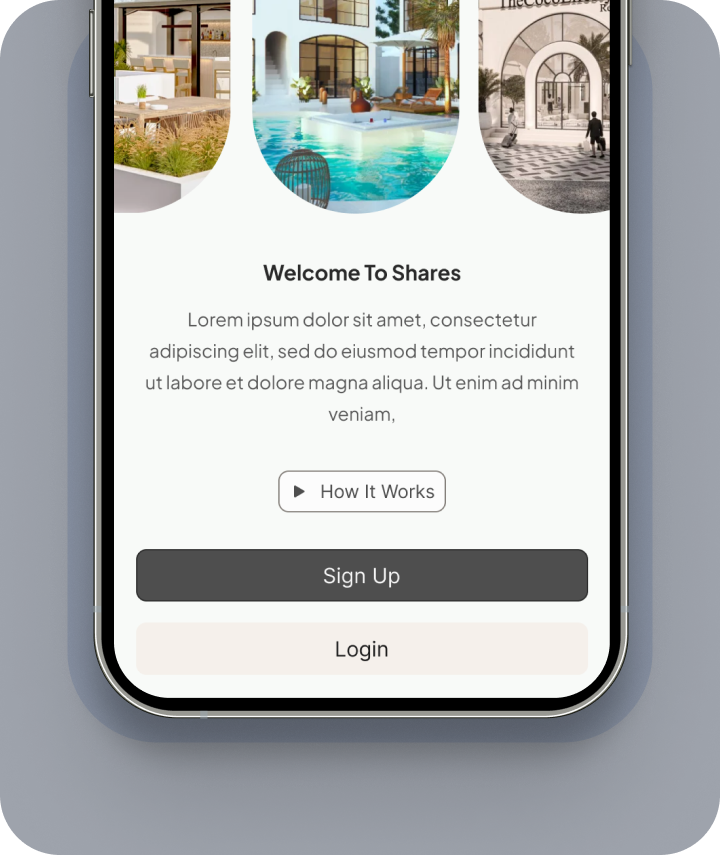
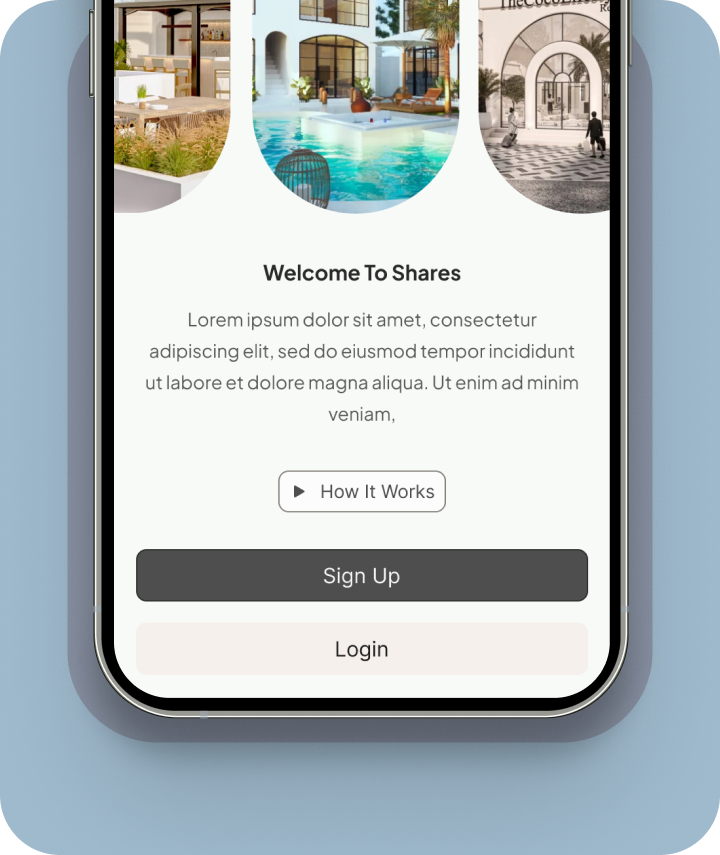
color scheming update

Changed region(s): [[0.0, 0.0, 1.0, 1.0]]

diff --git a/src/assets/icons/sale-site/works-invest-icon.tsx b/src/assets/icons/sale-site/works-invest-icon.tsx
@@ -10,13 +10,13 @@ const WorksInvestIcon = () => {
       <g clipPath="url(#clip0_298_17464)">
         <path
           d="M26.7856 48.2107V29.4607C26.7856 28.2767 27.256 27.1412 28.0932 26.304C28.9304 25.4668 30.0659 24.9965 31.2499 24.9965C32.4339 24.9965 33.5694 25.4668 34.4067 26.304C35.2439 27.1412 35.7142 28.2767 35.7142 29.4607V39.2822H42.8571C44.7515 39.2822 46.5683 40.0347 47.9078 41.3743C49.2474 42.7138 49.9999 44.5306 49.9999 46.425V48.2107"
-          fill="#9EA3AC"
+          fill="#9FBACD"
         />
         <path
           fillRule="evenodd"
           clipRule="evenodd"
           d="M0.110842 15.8C0.114865 13.5254 0.610048 11.2786 1.56253 9.21307C2.51501 7.14756 3.90232 5.3121 5.6296 3.83221C7.35688 2.35232 9.38338 1.2629 11.5705 0.638451C13.7577 0.0140025 16.0539 -0.130749 18.3021 0.214097C20.5504 0.558942 22.6977 1.38525 24.5971 2.63651C26.4966 3.88778 28.1034 5.53449 29.3077 7.46404C30.512 9.39359 31.2855 11.5605 31.5751 13.8165C31.8647 16.0725 31.6637 18.3645 30.9858 20.5357C28.6646 20.6044 26.4614 21.5749 24.8438 23.2412C23.2262 24.9074 22.3215 27.1384 22.3216 29.4607V30.2428C19.916 31.3117 17.2814 31.7625 14.6573 31.5542C12.0332 31.3459 9.50275 30.4851 7.29593 29.0501C5.08911 27.6151 3.27589 25.6513 2.02107 23.3373C0.766255 21.0233 0.109618 18.4323 0.110842 15.8ZM15.9073 4.23569C17.143 4.23569 18.1394 5.23569 18.1394 6.46784V7.47855C19.0175 7.67972 19.8305 8.09949 20.5029 8.69889C21.1754 9.29829 21.6855 10.0579 21.9858 10.9071C22.0836 11.1836 22.126 11.4766 22.1105 11.7695C22.0951 12.0623 22.0221 12.3493 21.8957 12.6139C21.7694 12.8786 21.5921 13.1158 21.3741 13.3119C21.1561 13.508 20.9016 13.6593 20.6251 13.7571C20.3486 13.8549 20.0556 13.8973 19.7628 13.8818C19.4699 13.8664 19.183 13.7934 18.9183 13.667C18.6537 13.5407 18.4165 13.3634 18.2204 13.1454C18.0242 12.9274 17.8729 12.6729 17.7751 12.3964C17.7146 12.2251 17.6023 12.0767 17.4539 11.9718C17.3056 11.8669 17.1283 11.8106 16.9466 11.8107H14.5358C14.4025 11.813 14.2747 11.864 14.1764 11.954C14.078 12.044 14.016 12.1669 14.0019 12.2995C13.9879 12.432 14.0228 12.5652 14.1001 12.6738C14.1774 12.7824 14.2917 12.8591 14.4216 12.8893L18.0894 13.6893C19.2752 13.95 20.3369 14.6065 21.0999 15.5509C21.863 16.4953 22.2818 17.6712 22.2876 18.8853C22.2935 20.0994 21.8859 21.2793 21.132 22.231C20.378 23.1826 19.3226 23.8493 18.1394 24.1214V25.1357C18.1394 25.7277 17.9042 26.2954 17.4856 26.7141C17.067 27.1327 16.4993 27.3678 15.9073 27.3678C15.3153 27.3678 14.7475 27.1327 14.3289 26.7141C13.9103 26.2954 13.6751 25.7277 13.6751 25.1357V24.125C12.7981 23.9223 11.9863 23.502 11.3147 22.9028C10.643 22.3035 10.1332 21.5447 9.83227 20.6964C9.63478 20.138 9.66719 19.5241 9.92237 18.9896C10.1776 18.4551 10.6346 18.0439 11.193 17.8464C11.7514 17.6489 12.3653 17.6813 12.8998 17.9365C13.4343 18.1917 13.8455 18.6487 14.043 19.2071C14.104 19.3782 14.2163 19.5262 14.3646 19.631C14.5129 19.7359 14.69 19.7924 14.8716 19.7928H16.9466C17.1605 19.7876 17.3652 19.7047 17.5226 19.5597C17.68 19.4147 17.7793 19.2174 17.802 19.0046C17.8247 18.7918 17.7693 18.578 17.6461 18.4031C17.5229 18.2281 17.3403 18.1039 17.1323 18.0535L13.468 17.25C12.333 17.0026 11.3192 16.3685 10.6 15.4562C9.88083 14.5439 9.501 13.4101 9.52547 12.2487C9.54994 11.0872 9.97719 9.97042 10.7341 9.08922C11.4911 8.20802 12.5307 7.6172 13.6751 7.41784V6.46784C13.6751 5.23212 14.6751 4.23569 15.9073 4.23569ZM26.7858 29.4607V49.9964H50.0001V46.425C50.0001 44.5306 49.2476 42.7138 47.908 41.3742C46.5685 40.0347 44.7517 39.2821 42.8573 39.2821H35.7144V29.4607C35.7144 28.2767 35.2441 27.1412 34.4069 26.304C33.5696 25.4668 32.4341 24.9964 31.2501 24.9964C30.0661 24.9964 28.9306 25.4668 28.0934 26.304C27.2562 27.1412 26.7858 28.2767 26.7858 29.4607Z"
-          fill="#9EA3AC"
+          fill="#9FBACD"
         />
       </g>
       <defs>

diff --git a/src/assets/icons/sale-site/works-exit-icon.tsx b/src/assets/icons/sale-site/works-exit-icon.tsx
@@ -9,7 +9,7 @@ const WorksExitIcon = () => {
     >
       <path
         d="M21.1914 2.7439V47.256L35.0586 43.0961V6.90395L21.1914 2.7439ZM36.8103 5.3689L36.8164 5.59614V8.49605H38.3789V5.37104L36.8103 5.3689ZM11.6211 5.37104V16.8232H13.3789V7.12886H19.4336V5.37104H11.6211ZM36.8164 10.2539V11.8164H38.3789V10.2539H36.8164ZM36.8164 13.5742V36.621H38.3789V13.5742H36.8164ZM13.3789 19.3092V22.7539H4.00391V27.246H13.3789V30.6907L19.0696 25L13.3789 19.3092ZM23.8281 22.6562C24.4753 22.6562 25 23.7055 25 25C25 26.2944 24.4753 27.3437 23.8281 27.3437C23.181 27.3437 22.6562 26.2944 22.6562 25C22.6562 23.7055 23.181 22.6562 23.8281 22.6562ZM13.3789 33.1767H11.6211V43.75H13.3789V33.1767ZM36.8164 38.3789V39.746H38.3789V38.3789H36.8164ZM36.8164 41.5039V43.75H38.3789V41.5039H36.8164ZM3.125 45.996V47.7539H19.4336V45.996H3.125ZM31.509 45.996L25.6496 47.7539H46.875V45.996H31.509Z"
-        fill="#9EA3AC"
+        fill="#9FBACD"
       />
     </svg>
   );

diff --git a/src/components/properties-card-be/index.tsx b/src/components/properties-card-be/index.tsx
@@ -128,6 +128,7 @@ export default function PropertiesCardBe(props: IPropertiesBeDataArray) {
           borderRadius={2}
           p={1.2}
           gap={1.2}
+          color={"text.body"}
         >
           {[
             {
@@ -203,11 +204,11 @@ export default function PropertiesCardBe(props: IPropertiesBeDataArray) {
               sx={{
                 ...BUTTON_STYLES,
                 color: "grey.50",
-                borderColor: "primary.main",
-                backgroundColor: "primary.main",
+                borderColor: "primary.50",
+                backgroundColor: "primary.50",
                 width: "100%",
                 ":hover": {
-                  backgroundColor: "primary.main",
+                  backgroundColor: "primary.50",
                 },
               }}
               disableElevation

diff --git a/src/assets/icons/sale-site/works-earn-icon.tsx b/src/assets/icons/sale-site/works-earn-icon.tsx
@@ -9,7 +9,7 @@ const WorksEarnIcon = () => {
     >
       <path
         d="M34.3748 31.25C31.8884 31.25 29.5039 32.2378 27.7457 33.9959C25.9876 35.7541 24.9998 38.1386 24.9998 40.625C24.9998 35.448 21.2707 31.25 16.6665 31.25M34.3748 22.9167C31.8884 22.9167 29.5039 23.9044 27.7457 25.6626C25.9876 27.4207 24.9998 29.8053 24.9998 32.2917C24.9998 27.1146 21.2707 22.9167 16.6665 22.9167M34.3748 14.5834C31.8884 14.5834 29.5039 15.5711 27.7457 17.3292C25.9876 19.0874 24.9998 21.472 24.9998 23.9584C24.9998 18.7813 21.2707 14.5834 16.6665 14.5834M24.9998 8.33337V20.8334"
-        stroke="#9EA3AC"
+        stroke="#9FBACD"
         strokeWidth="5"
         strokeLinecap="round"
         strokeLinejoin="round"

diff --git a/src/assets/icons/sale-site/works-browse-icon.tsx b/src/assets/icons/sale-site/works-browse-icon.tsx
@@ -9,7 +9,7 @@ const WorksBrowseIcon = () => {
     >
       <path
         d="M6.25 27.0833V10.4167C6.25 9.27083 6.65833 8.29028 7.475 7.475C8.29167 6.65972 9.27222 6.25139 10.4167 6.25H22.9167V27.0833H6.25ZM27.0833 6.25H39.5833C40.7292 6.25 41.7104 6.65833 42.5271 7.475C43.3438 8.29167 43.7514 9.27222 43.75 10.4167V18.75H27.0833V6.25ZM27.0833 43.75V22.9167H43.75V39.5833C43.75 40.7292 43.3424 41.7104 42.5271 42.5271C41.7118 43.3438 40.7306 43.7514 39.5833 43.75H27.0833ZM6.25 31.25H22.9167V43.75H10.4167C9.27083 43.75 8.29028 43.3424 7.475 42.5271C6.65972 41.7118 6.25139 40.7306 6.25 39.5833V31.25Z"
-        fill="#9EA3AC"
+        fill="#9FBACD"
       />
     </svg>
   );

diff --git a/src/theme/palette.tsx b/src/theme/palette.tsx
@@ -3,7 +3,7 @@ import { PaletteMode, PaletteOptions } from "@mui/material";
 const PRIMARY = {
   main: "#545452",
   100: "#F5F0EB",
-  50: "#9EA3AC",
+  50: "#9FBACD",
   25: "#E4DFD0",
   10: "#F2F0EA",
   5: "#E6ECF5",

diff --git a/src/assets/icons/sale-site/home-active-users-icon.tsx b/src/assets/icons/sale-site/home-active-users-icon.tsx
@@ -1,7 +1,7 @@
 import { IAssetsProps } from "@/interfaces";
 
 const HomeActiveUsersIcon = ({
-  fill = "#9EA3AC",
+  fill = "#9FBACD",
   stroke = "#FFFFFF",
 }: IAssetsProps) => {
   return (

diff --git a/src/assets/icons/sale-site/home-investments-icon.tsx b/src/assets/icons/sale-site/home-investments-icon.tsx
@@ -1,7 +1,7 @@
 import { IAssetsProps } from "@/interfaces";
 
 const HomeInvestmentsIcon = ({
-  fill = "#9EA3AC",
+  fill = "#9FBACD",
   stroke = "#FFFFFF",
 }: IAssetsProps) => {
   return (

diff --git a/src/assets/icons/sale-site/home-invested-icon.tsx b/src/assets/icons/sale-site/home-invested-icon.tsx
@@ -1,7 +1,7 @@
 import { IAssetsProps } from "@/interfaces";
 
 const HomeInvestedIcon = ({
-  fill = "#9EA3AC",
+  fill = "#9FBACD",
   stroke = "#FFFFFF",
 }: IAssetsProps) => {
   return (

diff --git a/src/assets/icons/sale-site/home-projects-icon.tsx b/src/assets/icons/sale-site/home-projects-icon.tsx
@@ -1,7 +1,7 @@
 import { IAssetsProps } from "@/interfaces";
 
 const HomeProjectsIcon = ({
-  fill = "#9EA3AC",
+  fill = "#9FBACD",
   stroke = "#FFFFFF",
 }: IAssetsProps) => {
   return (
